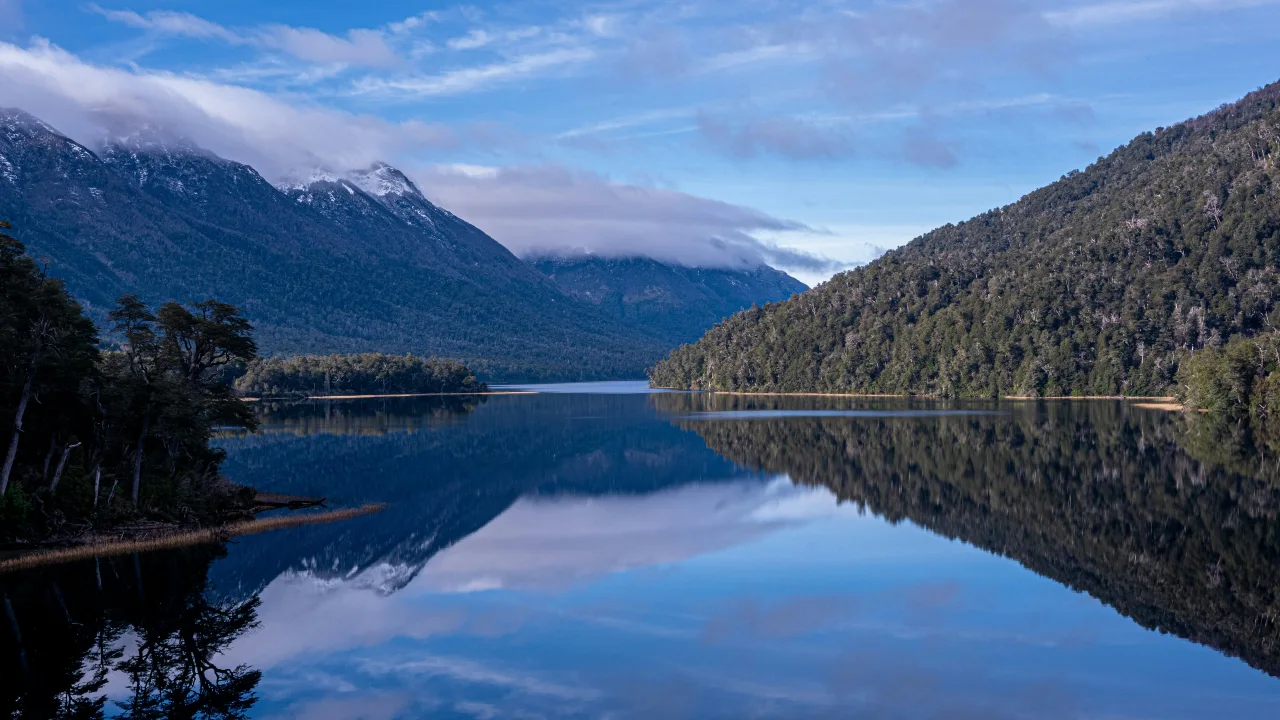
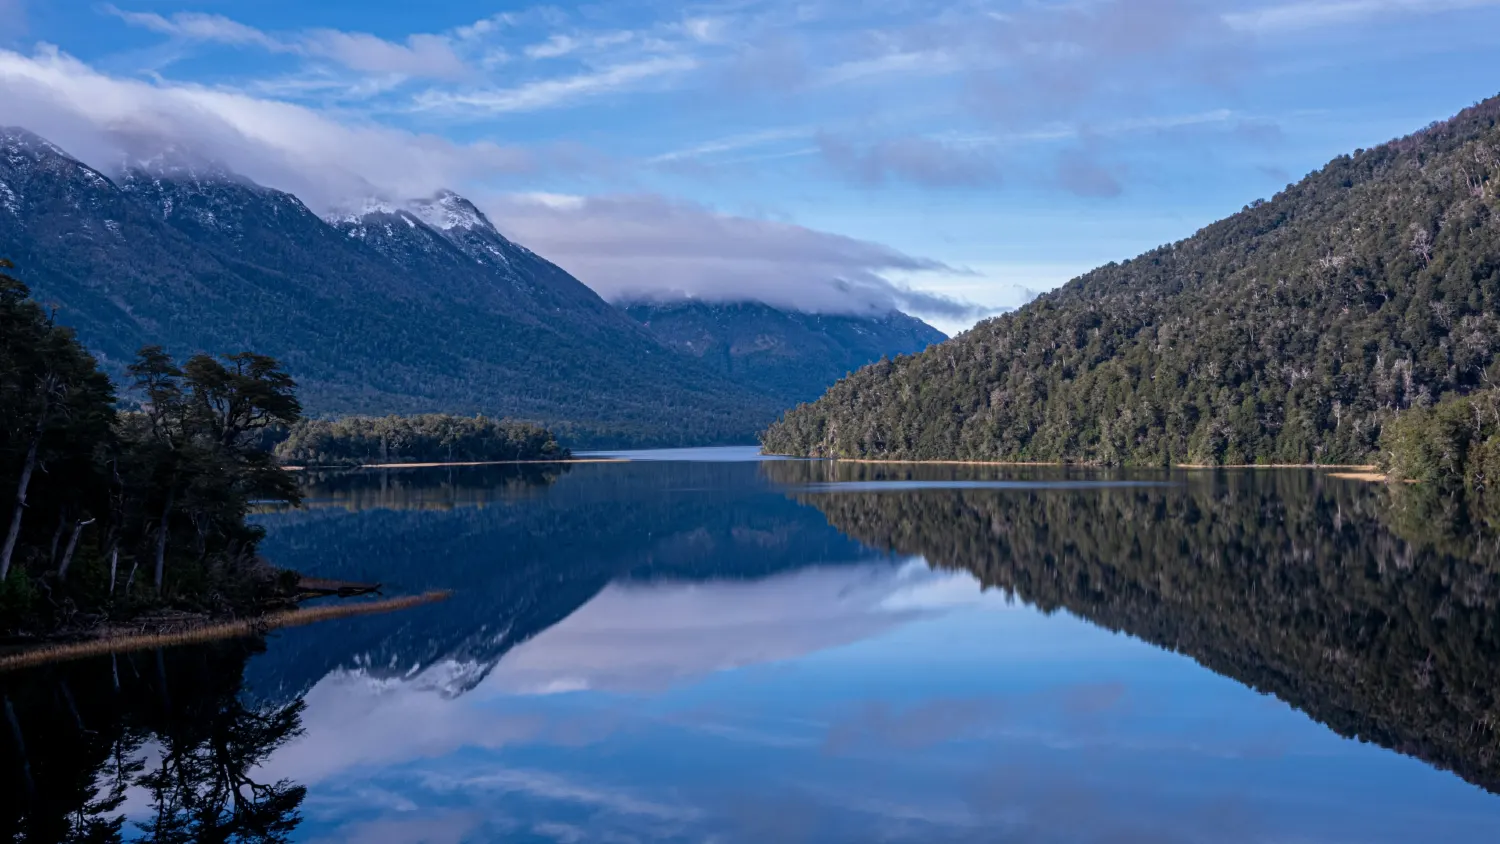
added js code to dinamically calculate the wind chill and display the values in the page

Changed region(s): [[0.125, 0.9167, 0.1562, 0.9472]]

diff --git a/scripts/place.js b/scripts/place.js
@@ -1,0 +1,20 @@
+const temp = 8;
+const speed = 6;
+
+document.querySelector("#temperature").textContent = `${temp} °C`;
+document.querySelector("#windSpeed").textContent = `${speed} km/h`;
+
+function calculateWindChill(temp, speed) {
+    return (
+        13.12 + 0.6215 * temp - 11.37 * (speed ** .16) + 0.3965 * temp * (speed ** .16)
+    );
+}
+
+const windChill = document.querySelector("#windChill");
+
+if (temp <= 10 && speed > 4.8) {
+    windChill.textContent = `${calculateWindChill(temp, speed).toFixed(1)} °C`;
+}
+else {
+    windChill.textContent = "N/A";
+}

diff --git a/place.html b/place.html
@@ -47,10 +47,10 @@
             <h2>Weather </h2>
             <img src="images/weather-sun.svg" alt="An icon of a sun and a cloud." class="sun-cloud">
 
-            <p><strong>Temperature: </strong></p>
-            <p><strong>Conditions: </strong></p>
-            <p><strong>Wind: </strong></p>
-            <p><strong>Wind Chill: </strong></p>
+            <p><strong>Temperature: </strong><span id="temperature"></span></p>
+            <p><strong>Conditions: </strong>Partly Cloudy</p>
+            <p><strong>Wind: </strong><span id="windSpeed"></span></p>
+            <p><strong>Wind Chill: </strong><span id="windChill"></span></p>
         </section>
     </main>
 

diff --git a/styles/place.css b/styles/place.css
@@ -54,7 +54,7 @@ section {
 .place-data p,
 .weather p {
     padding: 5px;
-    font-size: larger;
+    /* font-size: larger; */
     color: var(--secondary-font-color);
 }
 
@@ -98,6 +98,11 @@ section {
 
     .weather h2::after {
         content: " ⛅";
+    }
+
+    .place-data p,
+    .weather p {
+        font-size: larger;
     }
 
     .sun-cloud {